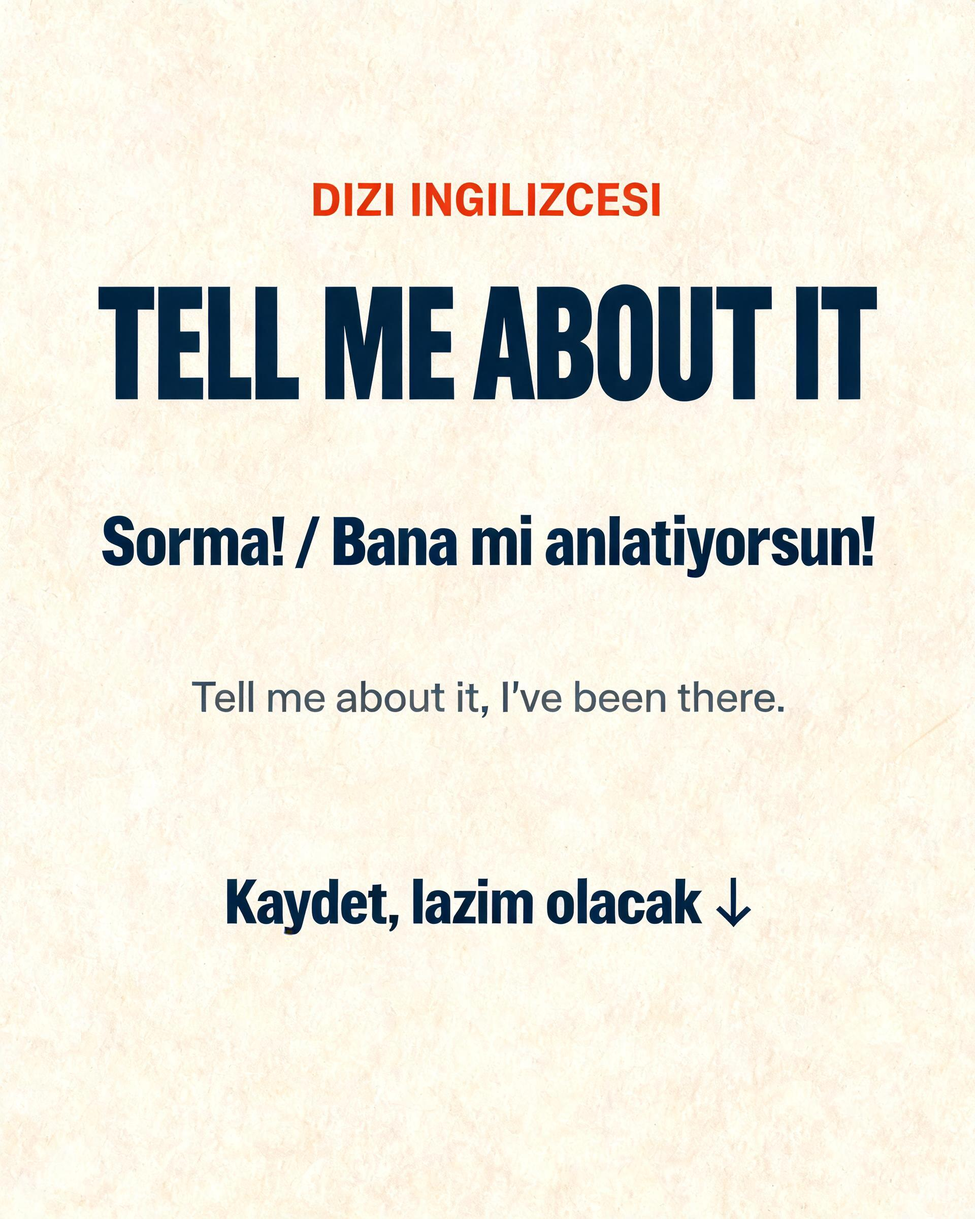
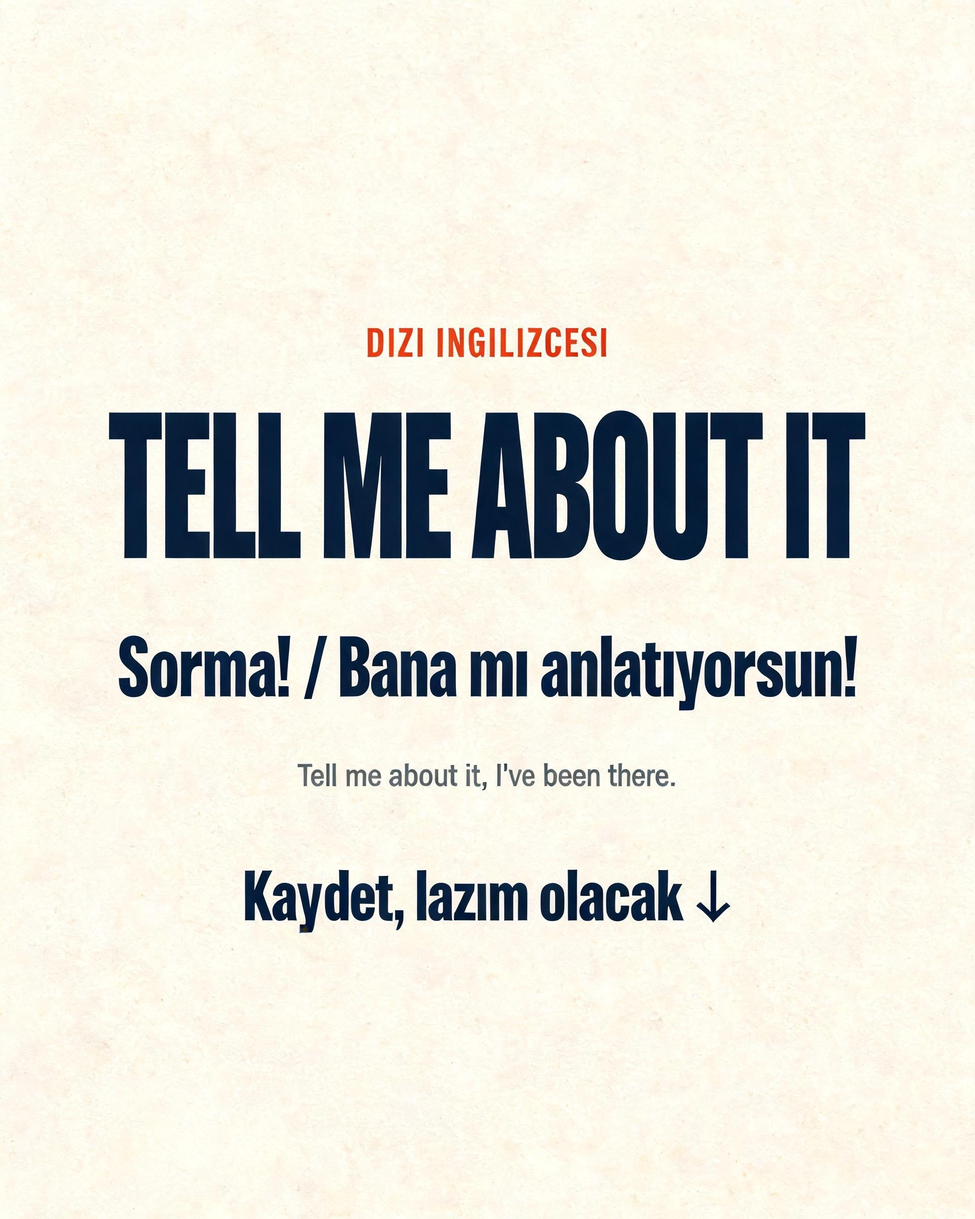
tell-me-about-it Turkce karakterle uretildi, yayin sirasi kusuru kapandi
Iki is bir arada; ikincisi birincisini yaparken cikti.

1) dizi/tell-me-about-it/1.jpg tam Turkce metinle yeniden uretildi:
   "Bana mi anlatiyorsun" -> "Bana mı anlatıyorsun", "lazim" -> "lazım".
   seedream ucu ucune uc denemede de `ı` harfini dogru basti; ASCII kurali
   bu kart icin bilincli olarak askiya alindi. Ust kategori etiketi 60
   gorselde sabit oldugu icin ASCII kaldi. CTA'daki `Kaybet` hatasi ayni
   gorseldeki `b` glifi aynalanarak duzeltildi (d = b'nin yatay aynasi),
   yeni glif cizilmedi. mai kullanilmadi. Ayrinti: HATA-RAPORU.md.

2) Yayin sirasi anahtari uc ayri yerde yaziliydi ve puanlama geldiginde
   yalnizca ikisi guncellenmisti: gonderimi yapan saas_gonder._adaylar eski
   kategori rotasyonunda kalmisti. Yani puan yayin sirasini hic belirlemedi
   — `--durum` puan sirasini gosterirken rutin baska bir sirayi izliyordu.
   20.08'de havuzun tepesindeki iki 8.4'luk post dururken 7.8'lik post
   siraya konarak ortaya cikti.

   Uc kopya aday_sec.adaylari_sirala altinda tek fonksiyona indi. komut_durum
   artik git commit esitlik bozucusunu da okuyor; `--durum` ciktisi gonderimin
   gercekten izleyecegi sira.

diff --git a/.claude/skills/insta-yayinla/scripts/aday_sec.py b/.claude/skills/insta-yayinla/scripts/aday_sec.py
@@ -87,6 +87,40 @@ def _kategori_son_yayin(defter: dict) -> dict[str, float]:
     return son
 
 
+def adaylari_sirala(kok, adaylar: list[dict], defter: dict) -> list[dict]:
+    """Aday havuzunu yayin sirasina dizer. **Tek dogruluk kaynagi budur.**
+
+    Sirayi kullanan her yer (bu dosyadaki secim ve durum komutlari, saas_gonder'in
+    gonderim yolu) buraya bagli olmali. Anahtar bir donem uc yerde ayri ayri
+    yaziliydi ve puanlama gelince yalnizca ikisi guncellendi: gonderimi yapan
+    saas_gonder eski kategori rotasyonunda kaldi, yani puan hic yayina
+    yansimadi. 2026-08-20'de fark edildi (havuzun tepesindeki 8.4'luk postlar
+    dururken 7.8'lik post siraya kondu). Kopya silindigi icin artik ayrisamaz.
+    """
+    kategori_son = _kategori_son_yayin(defter)
+    ilk_commit_onbellek: dict[str, int] = {}
+    puanlar = {p["slug"]: puan_ozet(p["yol"]) for p in adaylar}
+
+    def sira_anahtari(post: dict):
+        slug = post["slug"]
+        if slug not in ilk_commit_onbellek:
+            ilk_commit_onbellek[slug] = ilk_commit_zamani(kok, slug)
+        puan = puanlar[slug]
+        return (
+            0 if puan["var"] else 1,                  # puansiz/bayat havuzun sonuna
+            -(puan["toplam"] or 0.0),                 # EN YUKSEK PUAN ONCE
+            # Buradan asagisi yalnizca esit puanlilar arasinda konusur.
+            # Rotasyonu esitlik bozucu olarak tutmak bedava: ayni puanda iki
+            # post varsa uzun suredir gorunmeyen kategoriden olani secilir.
+            kategori_son.get(post["kategori"], 0.0),
+            post["kategori"],
+            ilk_commit_onbellek[slug],
+            post["ad"],
+        )
+
+    return sorted(adaylar, key=sira_anahtari)
+
+
 def veri_topla(kok, post: dict, taban: str, url_kontrol: bool = True) -> tuple[dict, list[str]]:
     """Bir postun yayin verisini kurar. (veri, sorunlar) doner."""
     sorunlar: list[str] = []
@@ -153,28 +187,8 @@ def komut_sec(kok, args) -> int:
         )
         return 1
 
-    kategori_son = _kategori_son_yayin(defter)
-    ilk_commit_onbellek: dict[str, int] = {}
+    adaylar = adaylari_sirala(kok, adaylar, defter)
     puanlar = {p["slug"]: puan_ozet(p["yol"]) for p in adaylar}
-
-    def sira_anahtari(post: dict):
-        slug = post["slug"]
-        if slug not in ilk_commit_onbellek:
-            ilk_commit_onbellek[slug] = ilk_commit_zamani(kok, slug)
-        puan = puanlar[slug]
-        return (
-            0 if puan["var"] else 1,                  # puansiz/bayat havuzun sonuna
-            -(puan["toplam"] or 0.0),                 # EN YUKSEK PUAN ONCE
-            # Buradan asagisi yalnizca esit puanlilar arasinda konusur.
-            # Rotasyonu esitlik bozucu olarak tutmak bedava: ayni puanda iki
-            # post varsa uzun suredir gorunmeyen kategoriden olani secilir.
-            kategori_son.get(post["kategori"], 0.0),
-            post["kategori"],
-            ilk_commit_onbellek[slug],
-            post["ad"],
-        )
-
-    adaylar.sort(key=sira_anahtari)
 
     elenenler: list[dict] = []
     for post in adaylar:
@@ -281,26 +295,15 @@ def komut_durum(kok, args) -> int:
             toplamlar.append(oz["toplam"])
 
     # Secim artik global puan siralamasi oldugu icin "kalan postlar" listesinin
-    # kendisi bir yayin plani. Anahtar komut_sec ile ayni sirayla kuruluyor
-    # (puan, sonra kategori rotasyonu) ki iki cikti esit puanlilarda ayrismasin;
-    # tek fark en son esitlik bozucu olan git commit zamaninin okunmamasi.
-    kategori_son = _kategori_son_yayin(defter)
+    # kendisi bir yayin plani. Sira komut_sec ile ayni fonksiyondan geliyor —
+    # bu cikti bir tahmin degil, gonderimin gercekten izleyecegi sira.
     yayin_sirasi = [
         {
             "slug": p["slug"],
             "puan": ozetler[p["slug"]]["toplam"],
             "kategori": p["kategori"],
         }
-        for p in sorted(
-            kalan_postlar,
-            key=lambda p: (
-                0 if ozetler[p["slug"]]["var"] else 1,
-                -(ozetler[p["slug"]]["toplam"] or 0.0),
-                kategori_son.get(p["kategori"], 0.0),
-                p["kategori"],
-                p["slug"],
-            ),
-        )
+        for p in adaylari_sirala(kok, kalan_postlar, defter)
     ]
 
     json_bas(

diff --git a/.claude/skills/insta-yayinla/scripts/saas_gonder.py b/.claude/skills/insta-yayinla/scripts/saas_gonder.py
@@ -20,7 +20,7 @@ import sys
 import urllib.error
 import urllib.request
 
-from aday_sec import _dislanan_sluglar, _kategori_son_yayin, veri_topla
+from aday_sec import _dislanan_sluglar, adaylari_sirala, veri_topla
 from furi_ortak import (
     SAAS_MAX_CAPTION,
     durum_oku,
@@ -28,7 +28,6 @@ from furi_ortak import (
     defter_oku,
     gerekli_ortam,
     gunluk_sayaci_tazele,
-    ilk_commit_zamani,
     iso,
     json_bas,
     postlari_tara,
@@ -45,22 +44,19 @@ ONAY_PENCERESI_SAAT = 24
 
 
 def _adaylar(kok) -> list[dict]:
-    """aday_sec ile ayni rotasyon: en uzun suredir yayinlanmamis kategori once."""
+    """Yayin sirasi: en yuksek puandan asagiya (aday_sec.adaylari_sirala).
+
+    Sirayi burada YENIDEN YAZMA. Bu fonksiyonun kendi anahtari vardi ve
+    puanlama geldiginde guncellenmedi; sonuc olarak `aday_sec --durum` puan
+    sirasini gosterirken gonderim eski kategori rotasyonunu izliyordu ve
+    havuzun en iyi postlari sirasi hic gelmeden bekliyordu.
+    """
     durum, defter = durum_oku(kok), defter_oku(kok)
     dislanan = _dislanan_sluglar(durum, defter)
     adaylar = [p for p in postlari_tara(kok) if p["slug"] not in dislanan]
     if not adaylar:
         return []
-    kategori_son = _kategori_son_yayin(defter)
-    onbellek: dict[str, int] = {}
-
-    def anahtar(p):
-        if p["slug"] not in onbellek:
-            onbellek[p["slug"]] = ilk_commit_zamani(kok, p["slug"])
-        return (kategori_son.get(p["kategori"], 0.0), p["kategori"],
-                onbellek[p["slug"]], p["ad"])
-
-    return sorted(adaylar, key=anahtar)
+    return adaylari_sirala(kok, adaylar, defter)
 
 
 def _saas_sorunlari(veri: dict) -> list[str]:

diff --git a/HATA-RAPORU.md b/HATA-RAPORU.md
@@ -33,6 +33,35 @@ korundu; satir 9 px sola kaydi (1920 px tuvalde gozle secilmiyor).
 > harf, sizmis diyakritik). Eksik ya da yanlis harf icin yeni glif cizmek
 > gerekir ve arsivdeki font serbest bir esdegeriyle tam eslesmiyor — o durumda
 > WORKFLOW.md Faz 4'e donup gorseli yeniden uretmek gerekiyor.
+>
+> **Ek (08-20):** ucuncu bir yol daha var — *ayni gorselden glif odunc almak*.
+> `dizi/tell-me-about-it/1.jpg`'de CTA `Kaybet` cikti (`Kaydet` olacakti). `d`,
+> geometrik sans'ta `b`'nin yatay aynasi oldugu icin `b` glifinin kutusu
+> (x=639..686, antialias dahil, iki yaninda 4'er piksel bosluk) yerinde
+> aynalandi. Font, punto, agirlik ve konum birebir korundu; yeni glif
+> cizilmedi. Ayna simetrisi olan harf ciftlerinde (b/d, p/q) calisir.
+
+2026-08-20, **Turkce diyakritik denemesi — `dizi/tell-me-about-it/1.jpg`**:
+§5'teki "bazi diyakritikler hayatta kaliyor" gozlemi ilk kez kontrollu olarak
+sinandi. Kart tam Turkce metinle yeniden uretildi (`Bana mi anlatiyorsun` →
+`Bana mı anlatıyorsun`, `lazim` → `lazım`); risk yuzeyi uc adet `ı` (U+0131),
+baska diyakritik yok. Ust kategori etiketi bilincli olarak ASCII birakildi
+(`DIZI INGILIZCESI`) — 60 gorselde sabit oldugu icin marka parcasi.
+
+**Sonuc: seedream ucunu de dogru basti, uc denemede de.** `ı` hicbir denemede
+`i`'ye donmedi, nokta eklenmedi. Yani `ı` model icin sorun degil; §5'teki
+"rastgele dusuyor" gozlemi en azindan bu harf icin gecerli degil. `ş ğ ü ö`
+ayni sekilde sinanmadi.
+
+Denemelerde cikan kusurlar diyakritikle degil, her zamanki harf hatasiyla ilgili:
+
+| Deneme | Tipografi | Metin |
+|---|---|---|
+| 1 | Baslik ince kesim, anlam satiri iki satira kirildi | Kusursuz |
+| 2 | Agirlik dogru, baslik iki satira kirildi | `olocak` (olacak) |
+| 3 | Marka kesimi birebir, tek satir baslik | `Kaybet` (Kaydet) → glif aynalamayla duzeltildi |
+
+Yayina giren: 3. deneme + aynalama. mai'ye hic gerek kalmadi.
 
 2026-08-11, `hikayeli/doktorda` uretimi: kapakta `CUMLELERS` ve 5. slaytta `alablir` + etiketin tirnak icine alinmasi cikti, ikisi de birer tekrarla duzeldi. Kalan tek kusur asagida.
 
@@ -131,3 +160,8 @@ Gorsellerdeki Turkce **tutarsiz** — WORKFLOW.md Faz 2 ASCII-only diyor ama ars
 Ust etiketler de her kartta ASCII: `DURUMSAL INGILIZCE`, `GUNUN PHRASAL VERB'U`, `SIK KARISTIRILANLAR`, `A1 • INGILIZCE TESTI`.
 
 Yeni postlarda WORKFLOW.md Faz 2 kurali gecerli: **tam ASCII**. Eski arsivi hizaya cekmek isterse, en gorunur olanlar kapak slaytlarindaki `BASLAMAK IÇIN KAYDIR`.
+
+**08-20 notu:** `dizi/tell-me-about-it/1.jpg` bu kuralin disinda, bilincli olarak
+tam Turkce basildi (yukaridaki deneme kaydi). Kural henuz degismedi — tek kart
+ve tek harf (`ı`) uzerinden genelleme yapilmiyor. Kurali gevsetmeden once
+`ş ğ ü ö` de ayni sekilde sinanmali.

diff --git a/dizi/tell-me-about-it/caption.md b/dizi/tell-me-about-it/caption.md
@@ -22,4 +22,4 @@ Kaydet, lazım olacak ⬇
 
 ## Alt text
 
-1. Krem zeminli tipografik kart: üstte turuncu "DIZI INGILIZCESI" etiketi, ortada dev lacivert "TELL ME ABOUT IT" başlığı, altında büyük lacivert "Sorma! / Bana mi anlatiyorsun!" satırı, gri renkte "Tell me about it, I've been there." örnek cümlesi, en altta aşağı oklu "Kaydet, lazim olacak" çağrısı.
+1. Krem zeminli tipografik kart: üstte turuncu "DIZI INGILIZCESI" etiketi, ortada dev lacivert "TELL ME ABOUT IT" başlığı, altında büyük lacivert "Sorma! / Bana mı anlatıyorsun!" satırı, gri renkte "Tell me about it, I've been there." örnek cümlesi, en altta aşağı oklu "Kaydet, lazım olacak" çağrısı.
